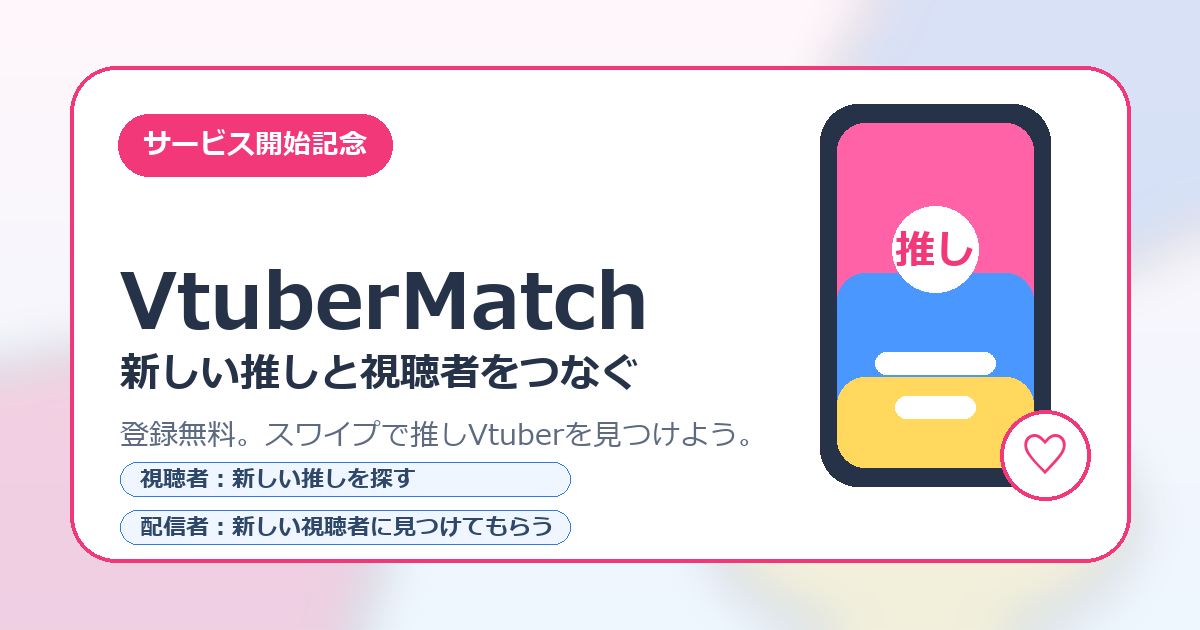
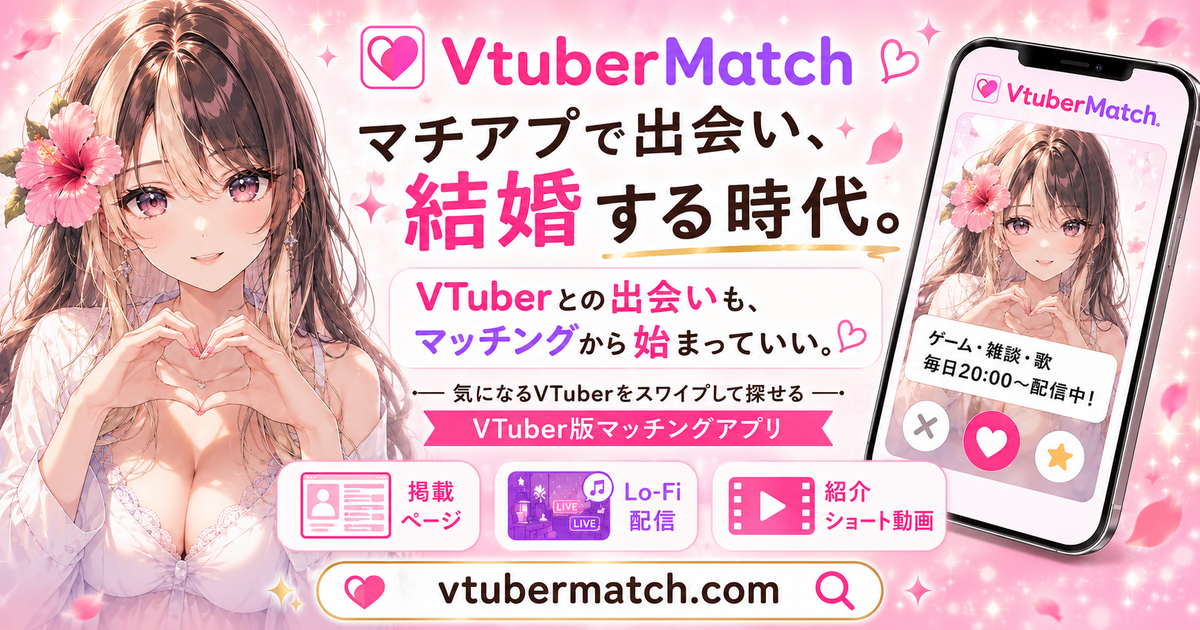
OGPバナー画像を新デザインに差し替え
public/og-image-v2.png・og-image.pngを新バナーに更新(1200x630へリサイズ)。
og-image系はimmutableな1年キャッシュヘッダーが付いているため、layout.tsx側の
バージョンクエリ(?v=)も更新してキャッシュを回避。

diff --git a/app/layout.tsx b/app/layout.tsx
@@ -7,7 +7,7 @@ import { VisitTracker } from "@/components/VisitTracker";
 import { absoluteUrl, getSiteUrl, siteDescription, siteKeywords, siteName } from "@/lib/seo";
 import "./globals.css";
 
-const ogImage = absoluteUrl("/og-image-v2.png?v=20260612-1");
+const ogImage = absoluteUrl("/og-image-v2.png?v=20260728-1");
 
 const mobileCriticalCss = `
   @media screen and (max-width: 760px) {
